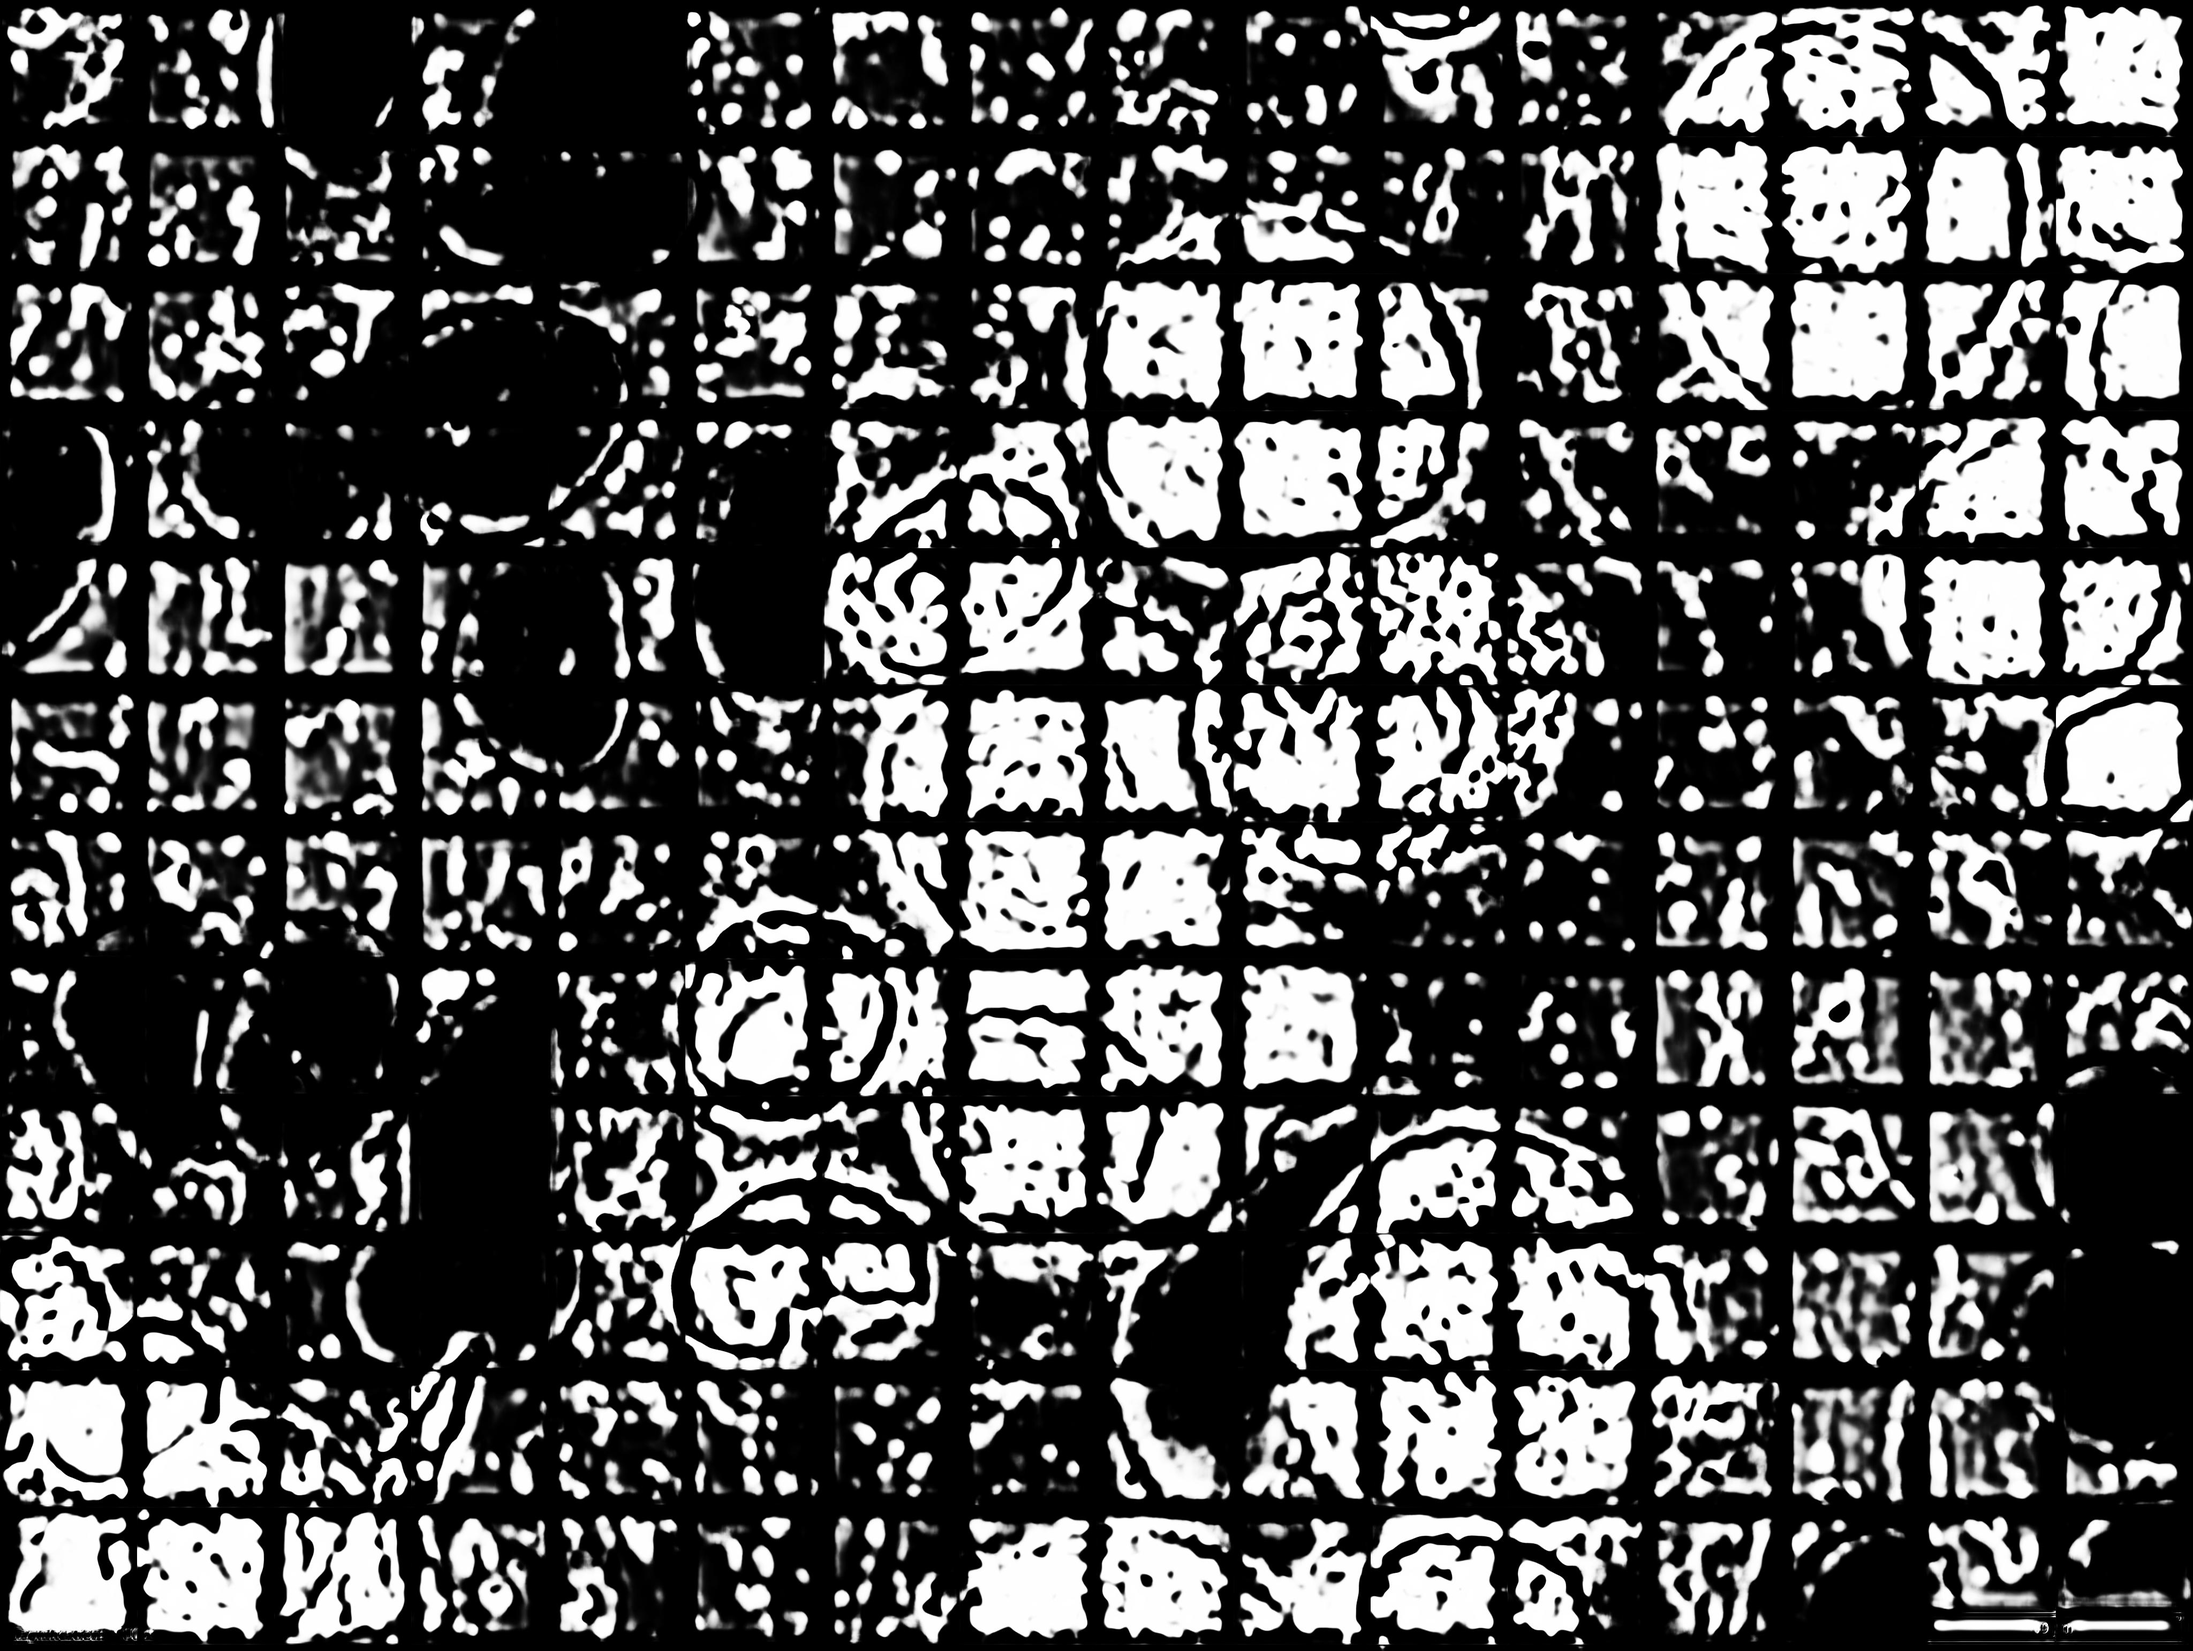
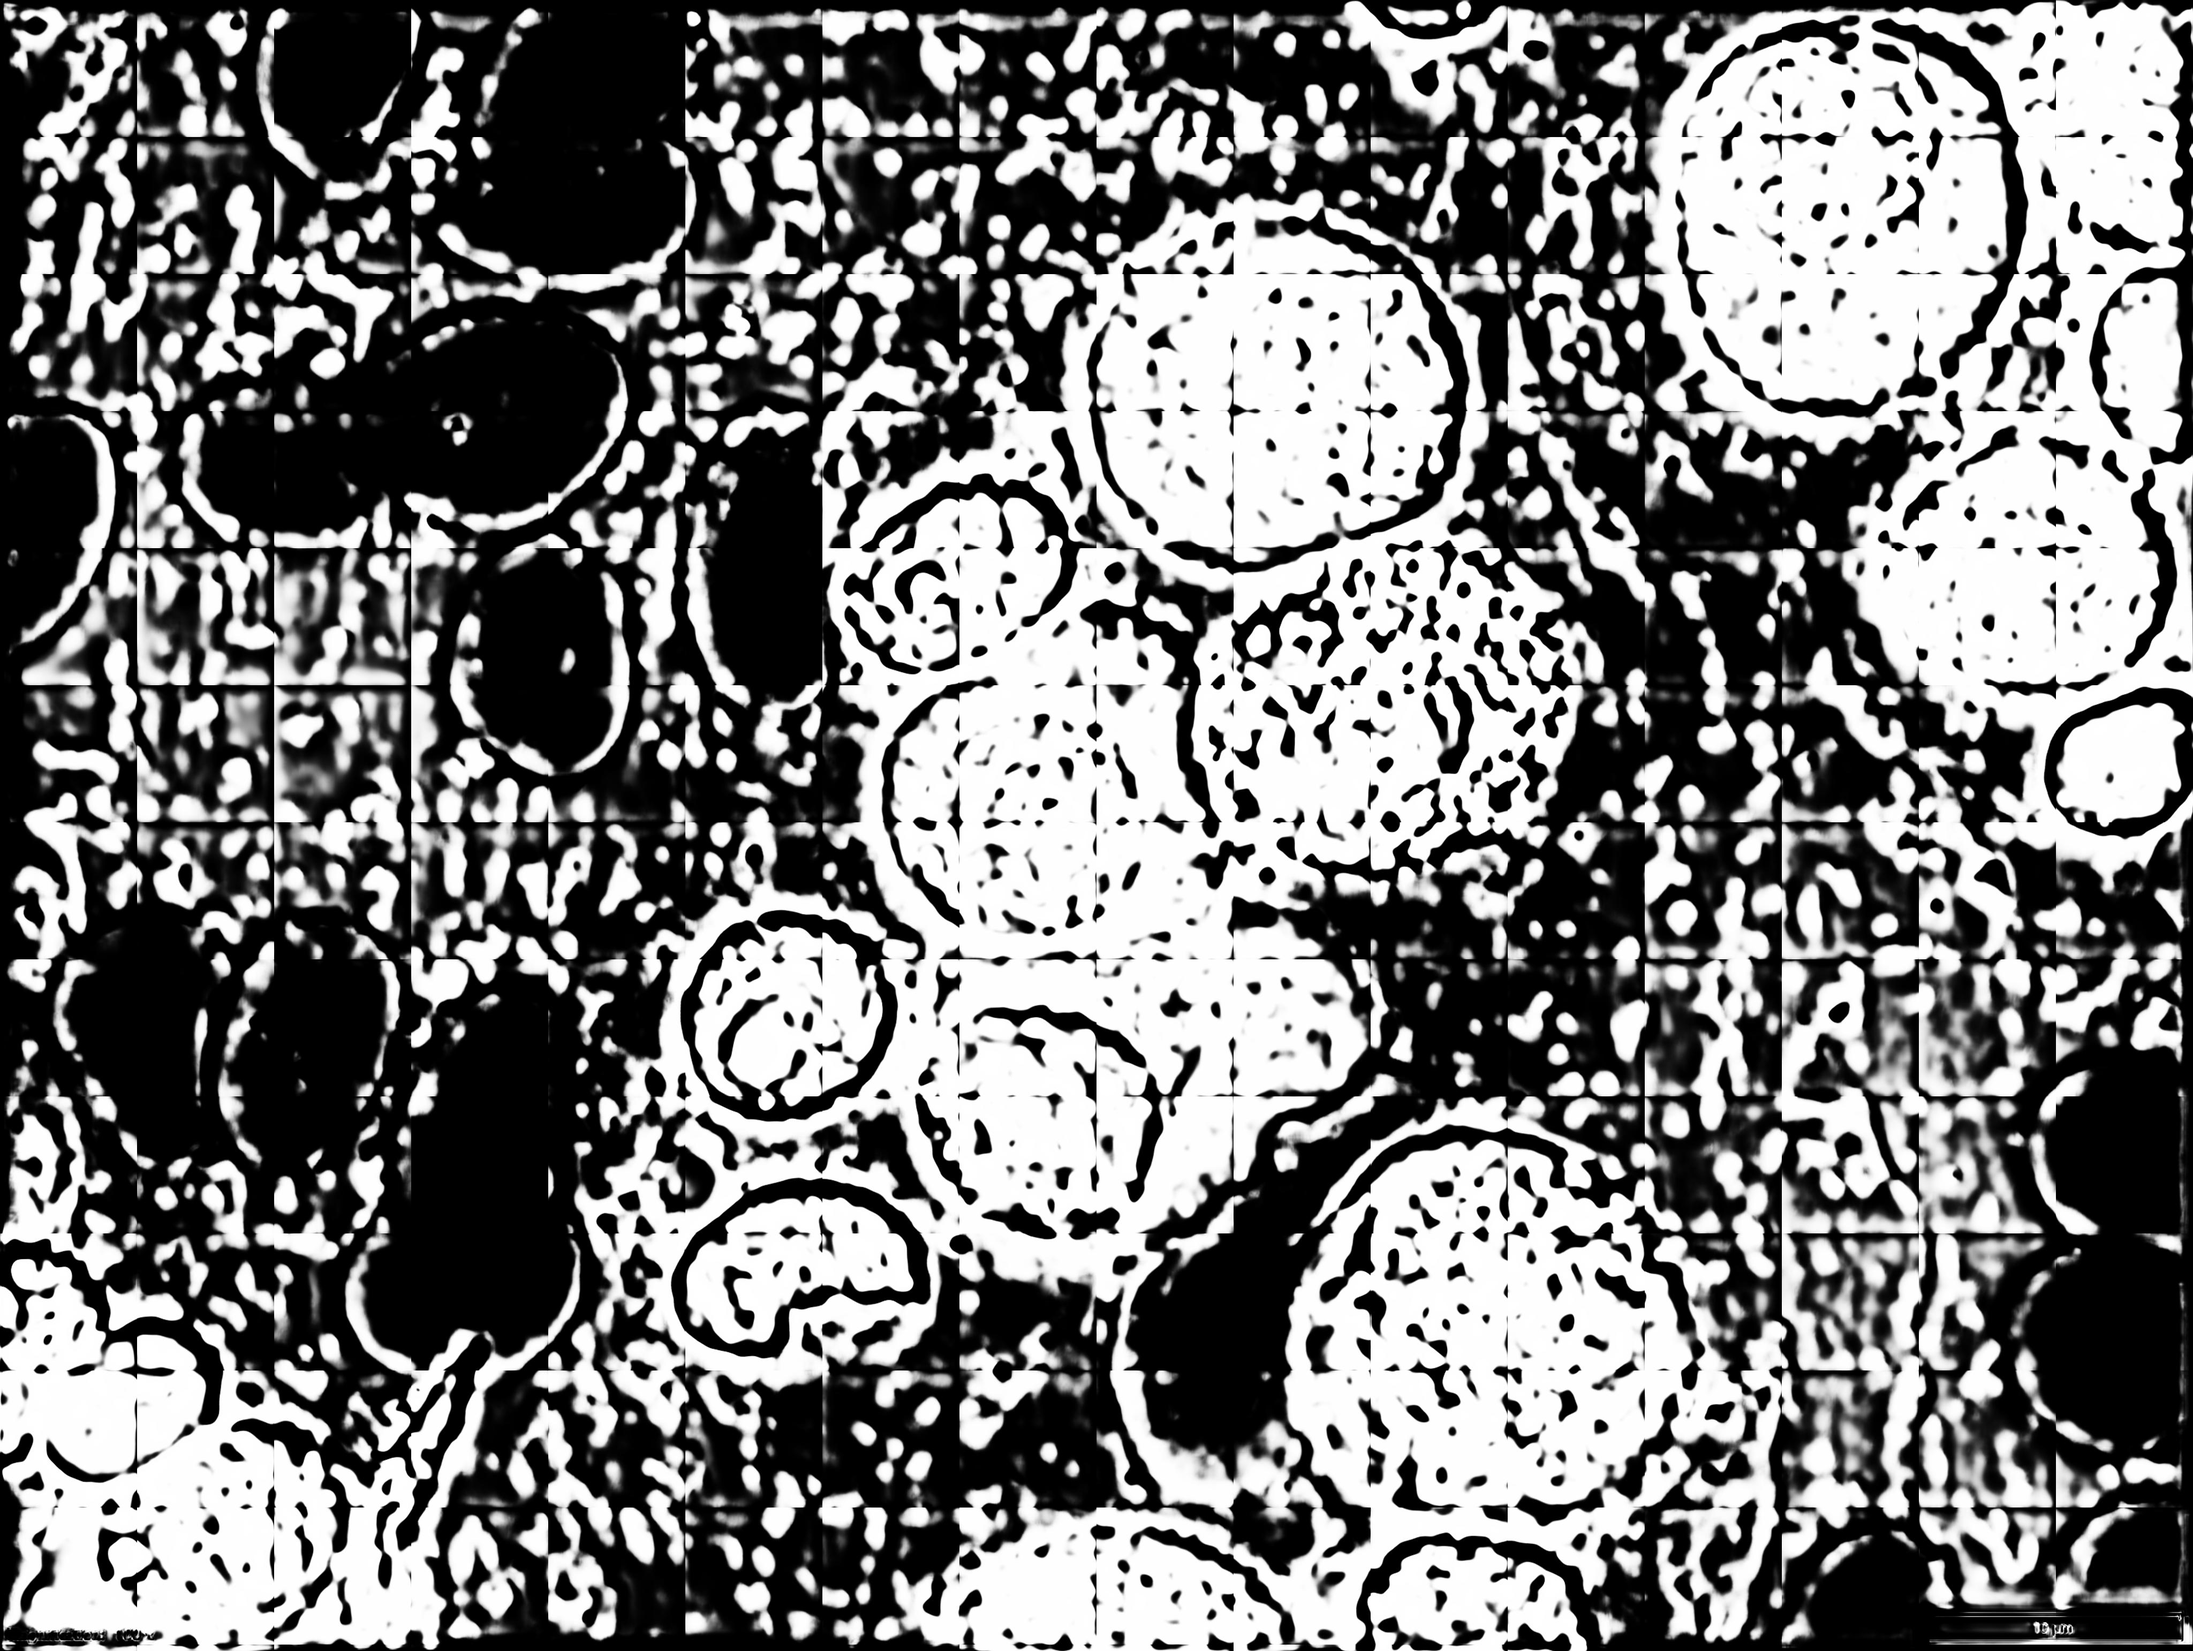
Modified to use Overlapped-Tiled-Image-Segmentation method.

diff --git a/TensorflowUNet.py b/TensorflowUNet.py
@@ -399,14 +399,18 @@ class TensorflowUNet:
   # 1 Split the orginal image to some tiled-images
   # 2 Infer segmentation regions on those images 
   # 3 Merge detected regions into one image
-  
+  # 2023/07/01
+  # Added MARGIN to cropping 
+
   def infer_tiles(self, input_dir, output_dir, expand=True):
     
     image_files  = glob.glob(input_dir + "/*.png")
     image_files += glob.glob(input_dir + "/*.jpg")
     image_files += glob.glob(input_dir + "/*.tif")
     image_files += glob.glob(input_dir + "/*.bmp")
-
+    MARGIN       = self.config.get(TILEDINFER, "overlapping", dvalue=0)
+    print("MARGIN {}".format(MARGIN))
+    
     merged_dir   = None
     try:
       merged_dir = self.config.get(TILEDINFER, "merged_dir")
@@ -418,7 +422,7 @@ class TensorflowUNet:
       pass
     split_size  = self.config.get(MODEL, "image_width")
     print("---split_size {}".format(split_size))
-
+    
     for image_file in image_files:
       image = Image.open(image_file)
       w, h  = image.size
@@ -430,10 +434,15 @@ class TensorflowUNet:
       horiz_split_num = w // split_size
       if w % split_size != 0:
         horiz_split_num += 1
-      background   = Image.new("L", (w, h))
+
+      bgcolor = self.config.get(TILEDINFER, "background", dvalue=0)  
+      print("=== bgcolor {}".format(bgcolor))
+      background = Image.new("L", (w, h), bgcolor)
       #print("=== width {} height {}".format(w, h))
       #print("=== horiz_split_num {}".format(horiz_split_num))
       #print("=== vert_split_num  {}".format(vert_split_num))
+      #input("----")
+  
       #input("----")
       for j in range(vert_split_num):
         for i in range(horiz_split_num):
@@ -445,25 +454,30 @@ class TensorflowUNet:
           if left >=w or upper >=h:
             continue 
       
-          cropped = image.crop((left, upper, right, lower))
+          #cropped = image.crop((left, upper, right, lower))
+          #2023/06/21
+          cropped = image.crop((left-MARGIN, upper-MARGIN, right+MARGIN, lower+MARGIN ))
+          cw, ch  = cropped.size
           cropped = cropped.resize((split_size, split_size))
           predictions = self.predict([cropped], expand=expand)
           prediction  = predictions[0]
           mask        = prediction[0]    
 
           img         = self.mask_to_image(mask)
+          img         = img.resize((cw, ch))
+
           img         = img.convert("L")
-          #blurred     = img.filter(filter=ImageFilter.BLUR)
+          #2023/06/21
+          ww, hh      = img.size
+          img         = img.crop((MARGIN, MARGIN, ww-MARGIN, hh-MARGIN))
+          ww, hh      = img.size
           background.paste(img, (left, upper))
-          #print("---paste j:{} i:{}".format(j, i))
-          #input("HHHIT")  
+          print("---paste j:{} i:{} ww:{} hh:{}".format(j, i, ww, hh))
+          
       basename = os.path.basename(image_file)
       output_file = os.path.join(output_dir, basename)
       #input("----")
       #background = background.filter(filter=ImageFilter.BLUR)
-      invert = self.config.get(TILEDINFER, "invert", False)
-      if invert:
-        background = ImageOps.invert(background)
       background.save(output_file)
       
       if merged_dir !=None:
@@ -471,11 +485,12 @@ class TensorflowUNet:
         img   = np.array(image)
         img   = cv2.cvtColor(img, cv2.COLOR_RGB2BGR)
         mask  = np.array(background)
-        mask  = cv2.cvtColor(mask, cv2.COLOR_GRAY2BGR)
+        mask   = cv2.cvtColor(mask, cv2.COLOR_GRAY2BGR)
         img += mask
 
         merged_file = os.path.join(merged_dir, basename)
         cv2.imwrite(merged_file, img)     
+
 
   def mask_to_image(self, data, factor=255.0):
     h = data.shape[0]

diff --git a/TensorflowUNet3Plus.py b/TensorflowUNet3Plus.py
@@ -125,10 +125,9 @@ class TensorflowUNet3Plus(TensorflowUNet):
     
     learning_rate  = self.config.get(MODEL, "learning_rate")
     clipvalue      = self.config.get(MODEL, "clipvalue", 0.2)
-
     self.optimizer = Adam(learning_rate = learning_rate, 
          beta_1=0.9, beta_2=0.999, epsilon=None, decay=0.0, 
-         #clipvalue=clipvalue,  #2023/0626
+         clipvalue=clipvalue,  #2023/06/30
          amsgrad=False)
     print("=== Optimizer Adam learning_rate {} clipvalue {}".format(learning_rate, clipvalue))
     
@@ -171,7 +170,7 @@ class TensorflowUNet3Plus(TensorflowUNet):
     """ Custom function for conv2d:
         Apply  3*3 convolutions with BN and relu.
     """
-
+    normalization = False
     for i in range(1, n + 1):
         x = k.layers.Conv2D(filters=kernels, kernel_size=kernel_size,
                             padding=padding, strides=strides,

diff --git a/README.md b/README.md
@@ -1,5 +1,5 @@
 <h2>
-TensorflowUNet3Plus-Segmentation-MultipleMyeloma (Updated: 2023/06/30)
+TensorflowUNet3Plus-Segmentation-MultipleMyeloma (Updated: 2023/07/01)
 </h2>
 This is an experimental project to detect <b>MultipleMyeloma</b> 
 by using <a href="./TensorflowUNet3Plus.py">TensorflowUNet3Plus</a> Model,
@@ -54,7 +54,11 @@ License
 CC BY-NC-SA 4.0
 </pre>
 
-
+<ul>
+<li>
+2023/07/01 Modified to use Overlapped-Tiled-Image-Segmentation to lessen BatchNormalization impact.
+</li>
+</ul>
 
 <h2>
 2 Prepare dataset
@@ -366,7 +370,31 @@ On classic UNet Tiled-Image-Segmentation of Multiple-Myeloma, please see also:<b
 <br>
 <!--
 -->
+<h2>
+7 Overlapped-Tiled-Image-Segmentation 
+</h2>
+To lessen BatchNormalization adverse effects in Tiled-Image-Segmentation, we have used <b>Overlapped-Tiled-Image-Segmentation</b> method,
+which is literally a way to split a large image into a lot of pieces of overlapped tiled images.<br>
+We have added <b>overlapping</b> property in [tiledinfer] section of <b>train_eval_infer.config</b> file as shown below.<br>
+<pre>
+[tiledinfer]
+overlapping = 32
+</pre>
+Furthermore, we have modified <b>infer_tiles</b> method in <a href="./TensorflowUNet.py">TensorflowUNet</a> classs to support overlapping property.<br>
+Please run the following tiled_infer bat file by using a train_eval_infer.config file including overlapping property.<br>
+<pre>
+>4.tiled_infer.bat
+</pre>
+, which simply runs the following command.<br>
+<pre>
+>python ../../TensorflowUNet3PlusTiledInferencer.py train_eval_infer.config
+</pre>
 
+<b>Tiled Inferred images (4k_tiled_mini_test_output)</b><br>
+<img src="./asset/4k_tiled_mini_test_output_overlapped.png" width="1024" height="auto"><br>
+<br>
+<!--
+-->
 
 <h3>
 References
